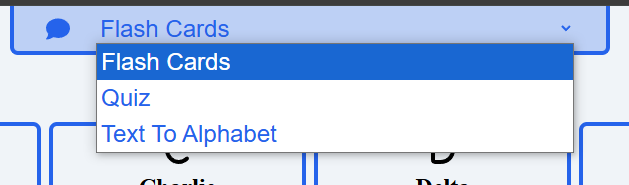
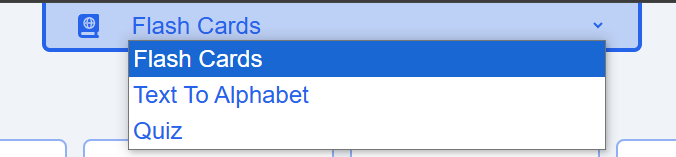
Version 2.0

Changed region(s): [[0.0, 0.0, 1.0, 1.0], [0.876, 0.1274, 0.9062, 0.1783]]

diff --git a/README.md b/README.md
@@ -68,3 +68,7 @@ In the quiz you have the option of entering a text and you are then asked how to
   * Vite
   * React
   * FontAwesomeIcon
+
+## Versions
+- V1.0: Full functionality with UI
+- V2.0: Full UI redesign
